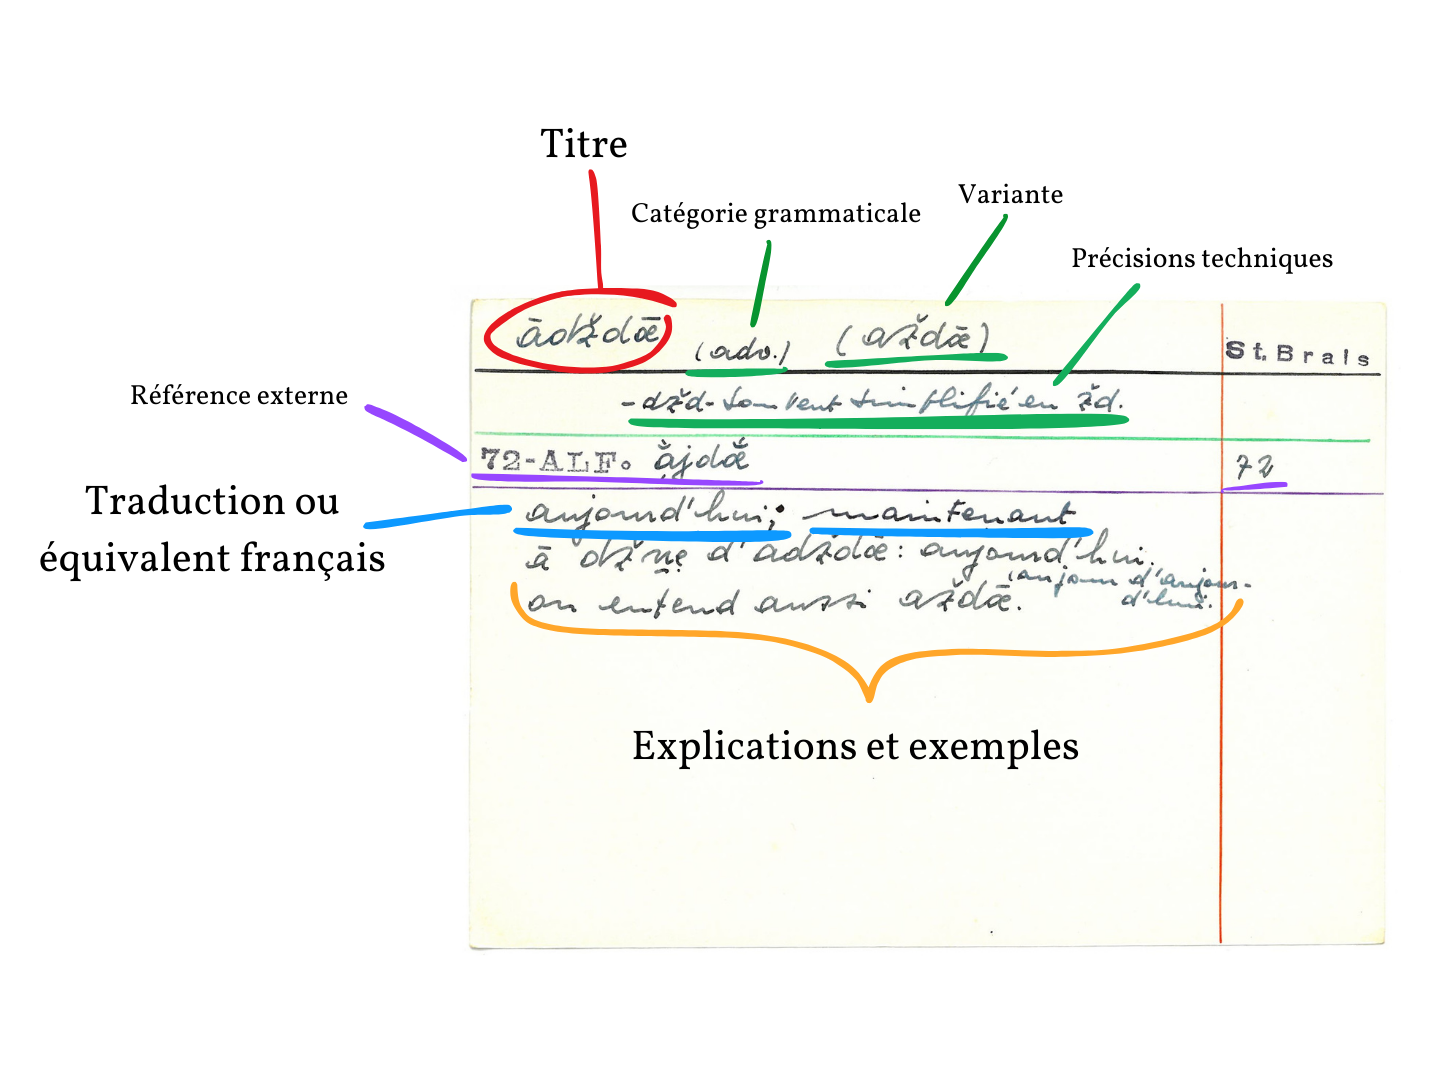
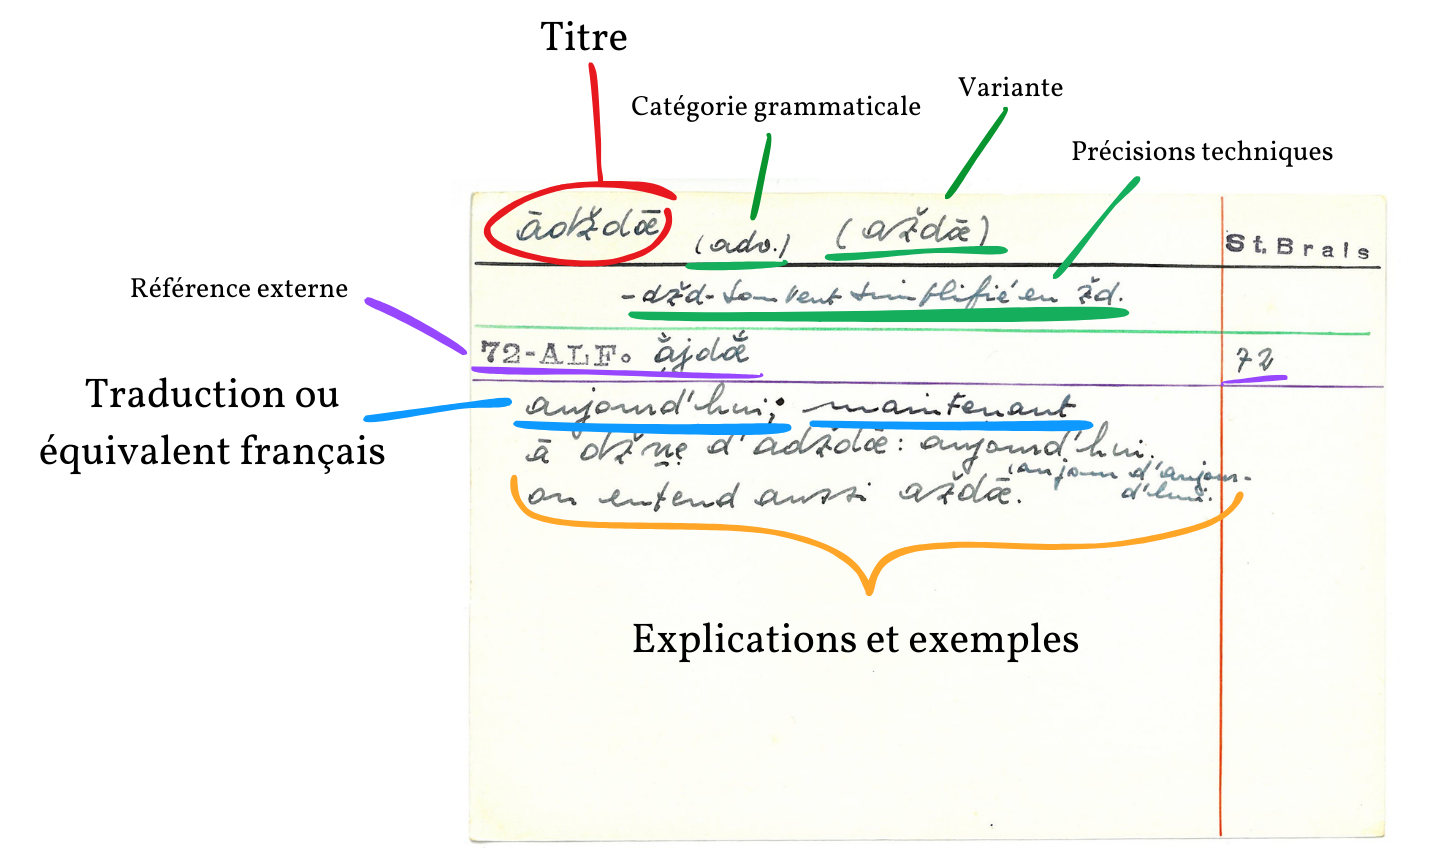
documentation

diff --git a/documentation/documentation.md b/documentation/documentation.md
@@ -7,9 +7,12 @@ Malheureusement, Robert Jolidon décède subitement en 1953. Son glossaire, dest
 |---|---|---|
 |Le carton contenant l'entièreté du fichier|Un des paquets de fiches|La fiche décrivant l'adverbe "autour" (*â di toué*)|
 
-Voici la structure typique d'une fiche:
-![Strucutre typique d'une fiche](images/structure.png)
-
-
 ## Les enjeux d'un balisage structuré
+
+Voici la structure typique d'une fiche:
+![Structure typique d'une fiche](images/structure.png)
+
+Malheureusement, toutes les fiches ne sont pas aussi stéréotypées. Par exemple:
+
+
 ## Les éléments à baliser
